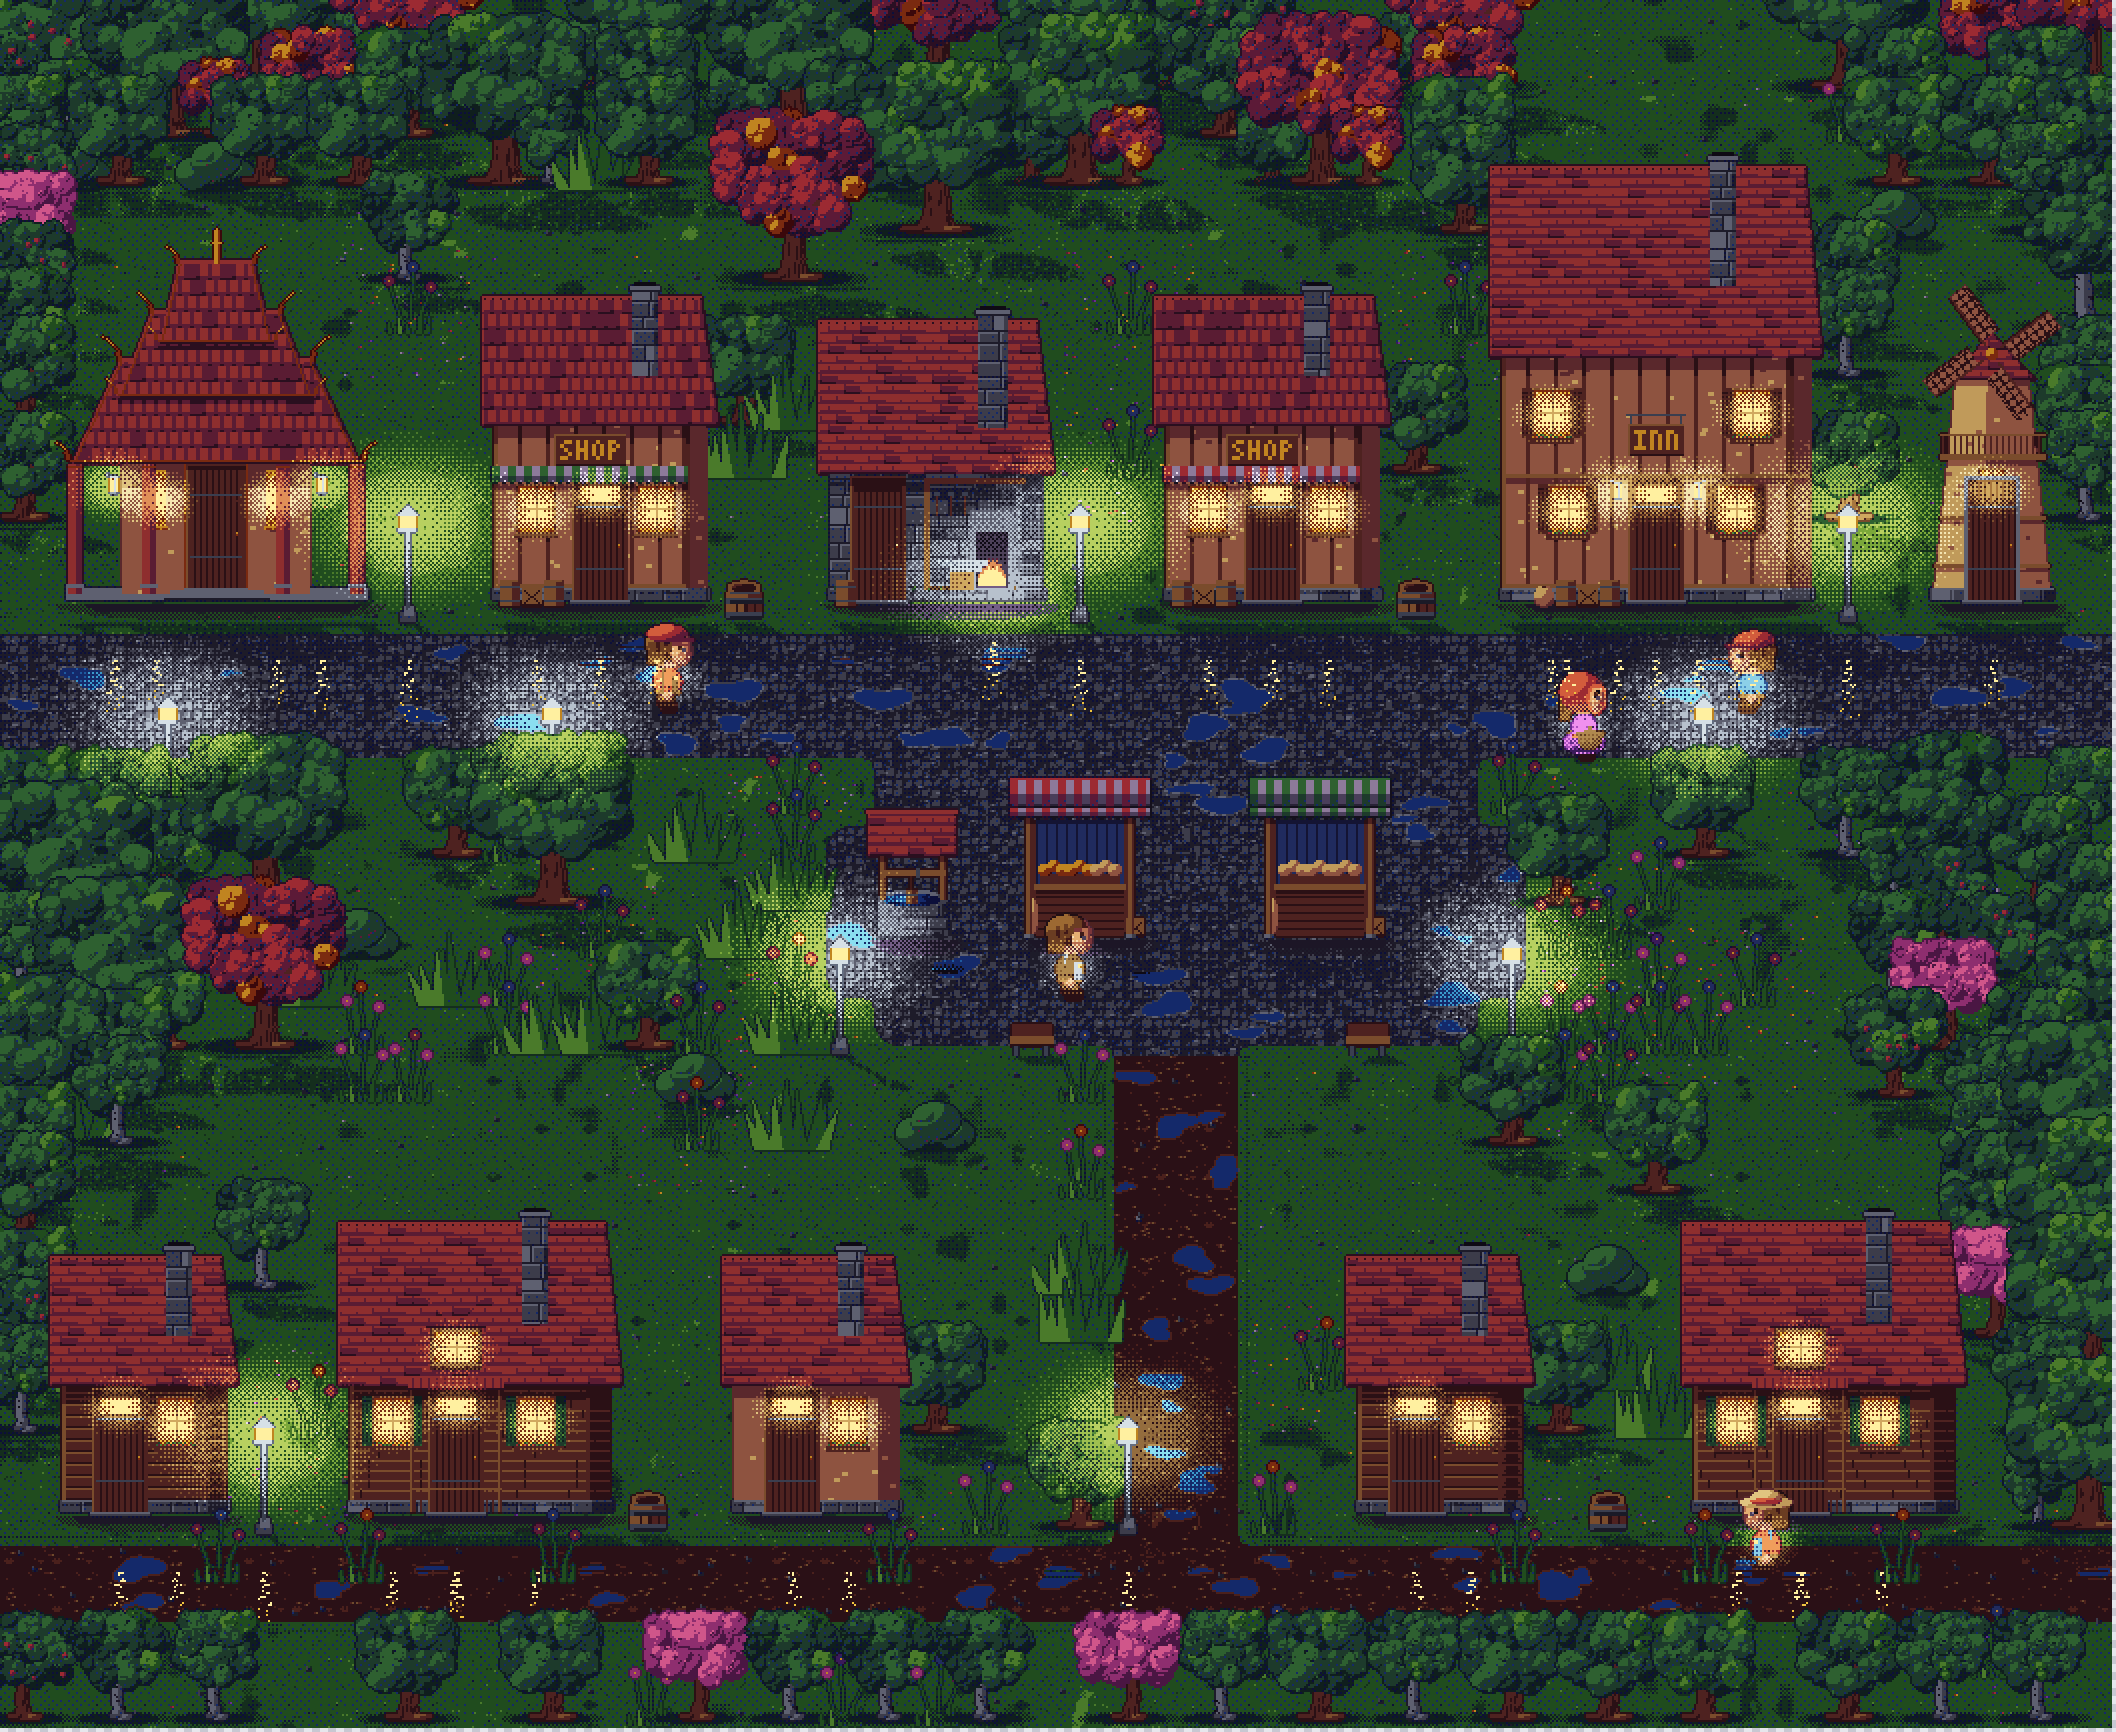
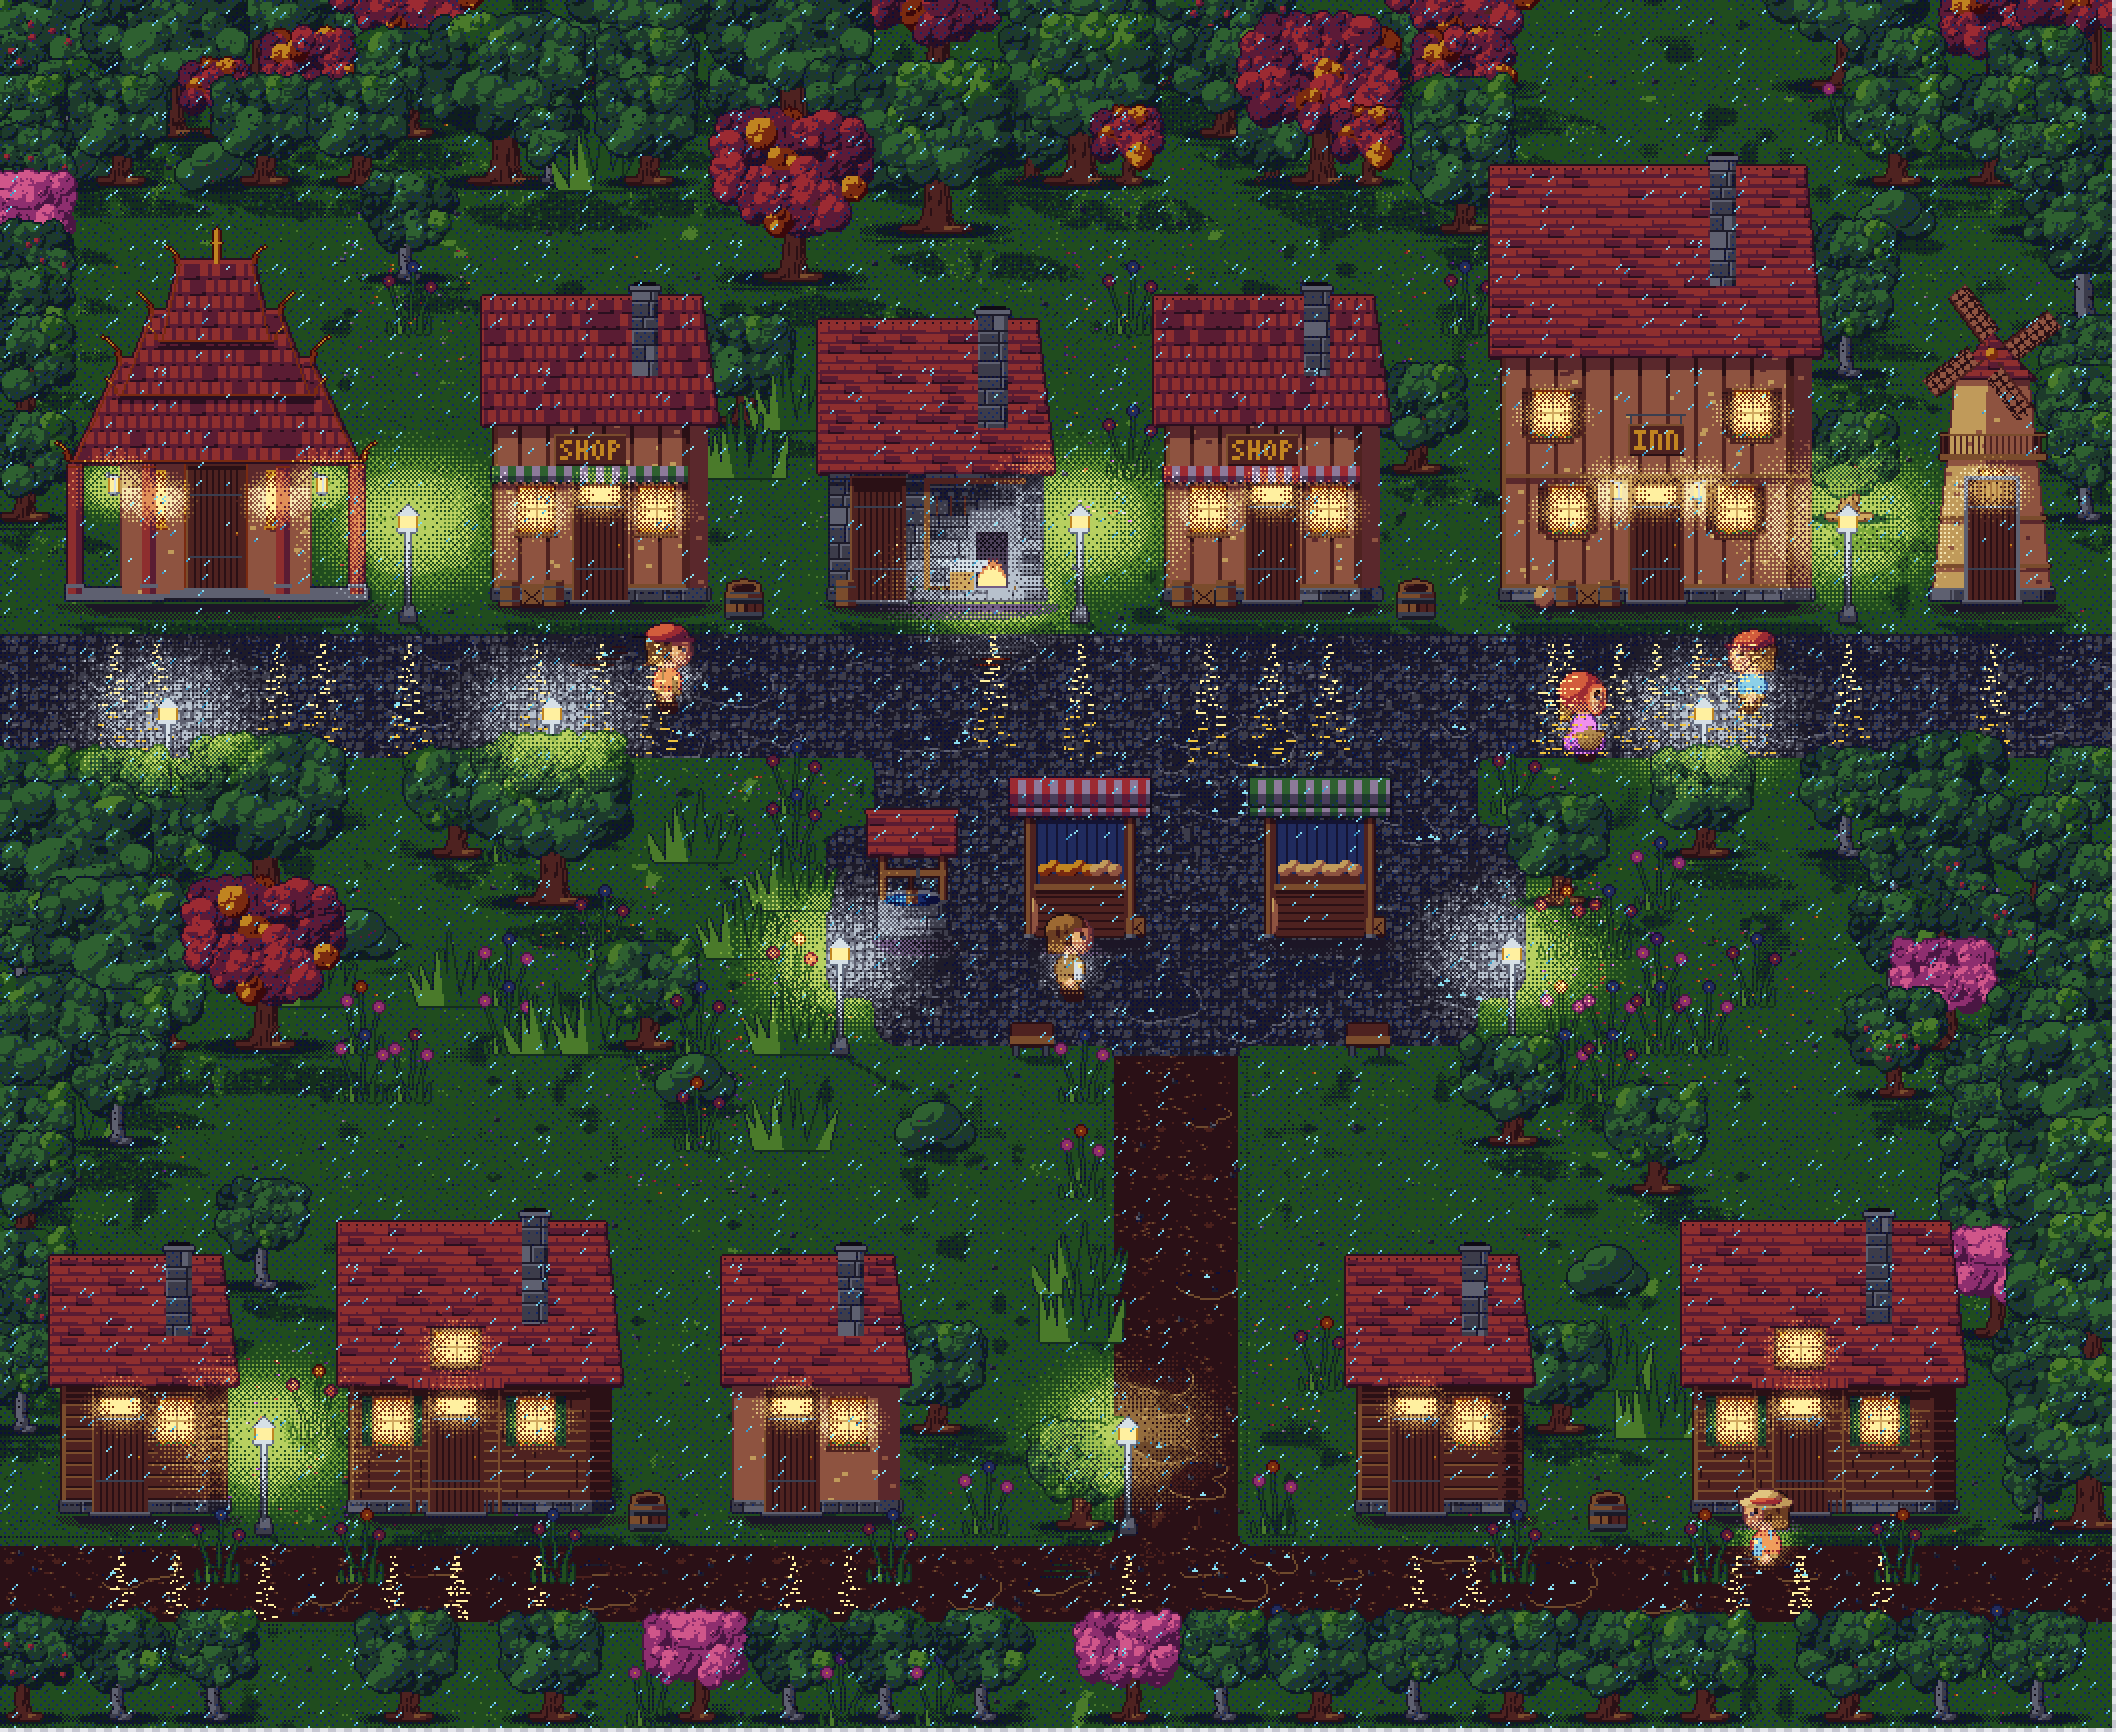
Wet floors: dark puddles, longer warm reflection columns, rain on stills

diff --git a/src/core/wet.ts b/src/core/wet.ts
@@ -33,6 +33,7 @@ export interface WetField {
   emitters: Emitter[];
   silhouettes: LitObject[];
   depth: RampDepth;
+  tile: number;
   mode: Exclude<Wet, "dry">;
   seed: number;
 }
@@ -93,14 +94,14 @@ export function wetField(img: Sprite, objects: LitObject[], kit: StyleKit, opts:
   const puddle = new Uint8Array(w * h);
   const r = rng((seed >>> 0) ^ 0x9e11);
   const unit = Math.max(1, kit.sizes.tile / 16);
-  const want = Math.floor(area / (opts.wet === "rain" ? 650 : 1500) / (unit * unit));
+  const want = Math.floor(area / (opts.wet === "rain" ? 1100 : 2800) / (unit * unit));
   const wetPts: number[] = [];
   for (let i = 0; i < w * h; i++) if (wet[i]) wetPts.push(i);
   let made = 0;
   for (let tries = 0; tries < want * 12 && made < want && wetPts.length; tries++) {
     const c = wetPts[Math.floor(r.next() * wetPts.length)];
     const cx = c % w, cy = Math.floor(c / w);
-    const rx = (3 + r.next() * 4.5) * unit * (opts.wet === "rain" ? 1.15 : 0.9), ry = rx * (0.4 + r.next() * 0.2);
+    const rx = (3 + r.next() * 4.5) * unit * (opts.wet === "rain" ? 1.6 : 1.3), ry = rx * (0.4 + r.next() * 0.2);
     const ph = r.next() * 6.28, ph2 = r.next() * 6.28;
     const cells: number[] = [];
     let on = 0, tot = 0;
@@ -135,7 +136,7 @@ export function wetField(img: Sprite, objects: LitObject[], kit: StyleKit, opts:
   }
   for (const l of opts.lights ?? []) emitters.push({ ...l, base: Math.round(l.y) + 6 });
   const silhouettes = objects.filter((o) => !NO_MIRROR.test(o.name));
-  return { w, h, wet, puddle, emitters, silhouettes, depth, mode: opts.wet, seed };
+  return { w, h, wet, puddle, emitters, silhouettes, depth, tile: kit.sizes.tile, mode: opts.wet, seed };
 }
 
 /** Stage 1 (before the grade): darker wet ground, glints, puddles and the silhouette reflections. */
@@ -147,8 +148,12 @@ export function wetGround(img: Sprite, f: WetField): Sprite {
       const i = y * w + x;
       if (!f.wet[i]) continue;
       const src = img.data[i];
-      if (f.puddle[i] === 1) out.data[i] = reflectionColor("puddle", 0.55 + 0.3 * hash(x >> 2, y >> 1, f.seed), depth);
-      else if (f.puddle[i] === 2) out.data[i] = shiftIndex(src, 1, depth);
+      if (f.puddle[i] === 1) out.data[i] = shiftIndex(src, -2, depth);
+      else if (f.puddle[i] === 2) {
+        // thin lighter rim on the sides away from the light (bottom / right), a rare cool pixel on the others
+        const away = !f.puddle[i + w] || !f.puddle[i + 1];
+        out.data[i] = away ? shiftIndex(src, 2, depth) : hash(x, y, f.seed + 9) < 0.18 ? reflectionColor("puddle", 0, depth) : shiftIndex(src, -2, depth);
+      }
       else out.data[i] = shiftIndex(src, -1, depth);
     }
   // glints: 2-3px dashes of sky light, only on dry-ish wet ground
@@ -192,19 +197,19 @@ export function wetGround(img: Sprite, f: WetField): Sprite {
 export function wetGlow(img: Sprite, f: WetField, time: TimeOfDay = "day"): Sprite {
   const out = cloneSprite(img);
   const { w, h, depth } = f;
-  const gain = GLOW_BY_TIME[time];
+  const gain = GLOW_BY_TIME[time], kitTile = Math.max(8, f.tile);
   f.emitters.forEach((e, n) => {
-    const drop = Math.min(18, Math.max(0, e.base - e.y) * 0.45);
+    const drop = Math.min(10, Math.max(0, e.base - e.y) * 0.3);
     const y0 = Math.round(e.base + 1 + drop);
-    const len = Math.round((7 + Math.min(10, e.r * 0.3)) * (0.6 + gain * 0.6));
+    const len = Math.round(kitTile * (e.r >= 20 ? 2.6 : 2.2) * (0.5 + gain * 0.5));
     const ph = hash(Math.round(e.x), Math.round(e.y), f.seed) * 6.28;
-    for (let k = 0; k < len * 1.6; k++) {
+    for (let k = 0; k < len; k++) {
       const y = y0 + k;
       if (y < 0 || y >= h) continue;
-      const fade = 1 - k / (len * 1.6);
+      const fade = 1 - k / len;
       if (fade <= 0 || k % 3 === 2) continue;
       const cx = Math.round(e.x + Math.sin(k * 1.3 + ph) * (0.6 + k / 6));
-      const wide = k < len * 0.9 && e.r >= 8 ? 1 : 0;
+      const wide = Math.min(2, (e.r >= 8 ? 1 : 0) + Math.floor(k / 14));
       for (let dx = -wide; dx <= wide; dx++) {
         const x = cx + dx;
         if (x < 0 || x >= w) continue;
@@ -212,7 +217,7 @@ export function wetGlow(img: Sprite, f: WetField, time: TimeOfDay = "day"): Spri
         if (!f.wet[i]) continue;
         const inP = f.puddle[i] > 0;
         // outside puddles only the brighter part of the streak catches the cobbles
-        if (!inP && (fade * gain < 0.12 || (x + y + n) % 4 === 0)) continue;
+        if (!inP && (fade * gain < 0.08 || (x + y + n) % 4 === 0)) continue;
         if (dx !== 0 && k % 2) continue;
         out.data[i] = reflectionColor("emitter", Math.min(1, 0.35 + fade * gain * (inP ? 1.2 : 0.9)), depth);
       }

diff --git a/src/core/generators/map.ts b/src/core/generators/map.ts
@@ -485,7 +485,7 @@ export const mapGenerator: Generator = {
     if (wet === "dry") return { ...res, rows: [{ name: "map", frames: res.rows[0].frames.map((f) => lightMap(f, tm, kit, { time, seed: s })) }] };
     const objects = mapLitObjects(tm);
     let frames = res.rows[0].frames.map((f) => (lit ? lightMap(f, tm, kit, { time: time, seed: s, wet }) : applyWet(f, objects, kit, { wet, seed: s })));
-    if (wet === "rain" && frames.length > 1) frames = addRain(frames, kit, s, wetField(res.rows[0].frames[0], objects, kit, { wet, seed: s }).puddle);
+    if (wet === "rain") frames = addRain(frames, kit, s, wetField(res.rows[0].frames[0], objects, kit, { wet, seed: s }).puddle, frames.length > 1 ? 1 : 0.7);
     return { ...res, rows: [{ name: "map", frames }] };
   },
 };

diff --git a/scripts/village-scene.ts b/scripts/village-scene.ts
@@ -141,7 +141,7 @@ export function renderSceneFrames(kit: StyleKit, seed: number, n: number, time?:
     return world;
   };
   const out = Array.from({ length: animated ? n : 1 }, (_, f) => compose(f));
-  return wet === "rain" && animated ? addRain(out, kit, seed, field!.puddle) : out;
+  return wet === "rain" ? addRain(out, kit, seed, field!.puddle, animated ? 1 : 0.7) : out;
 }
 
 /** A soft contact shadow: darkens the ground one ramp step under the feet (only ground pixels). */

diff --git a/src/core/mapanim.ts b/src/core/mapanim.ts
@@ -160,7 +160,7 @@ export function addRain(frames: Sprite[], kit: StyleKit, seed = 0, puddle?: Uint
     for (const s of splashes) {
       const age = (f - s.at + n) % n;
       if (age === 0) put(s.x, s.y, sp);
-      else if (age === 1) { put(s.x - 1, s.y, sp); put(s.x + 1, s.y, sp); put(s.x, s.y - 1, sp); }
+      if (age === 1 || n === 1) { put(s.x - 1, s.y, sp); put(s.x + 1, s.y, sp); put(s.x, s.y - 1, sp); }
     }
     return out;
   });
